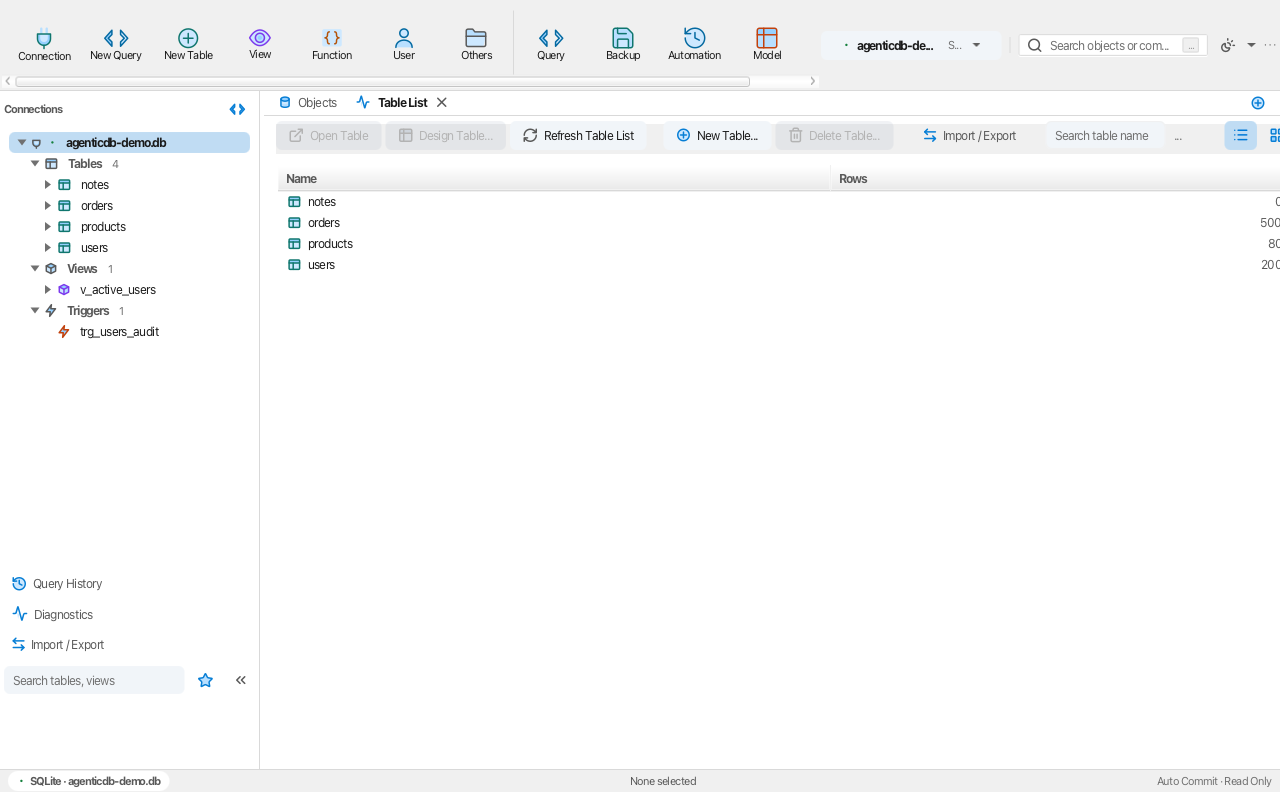
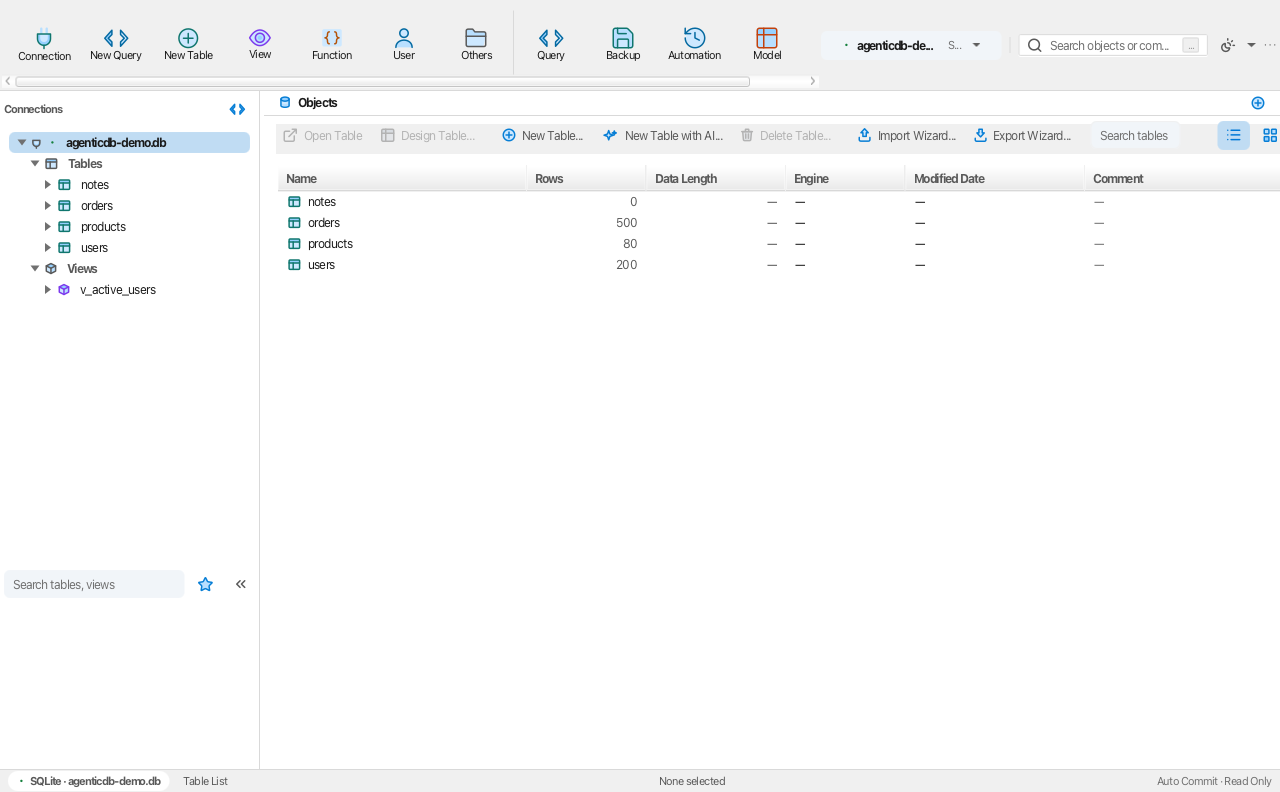
docs: R37-b 文档与三帧 —— 对象清单规格、CHANGELOG、基线回量
- UI-VISUAL-SPEC §7.9 改六列七键（删掉「图标式刷新」这条与实现不符的描述），§15 补 R37-a/b 变更行
- CHANGELOG 补 R36 与 R37-a/b（此前停在 R35）
- STATUS 基线 1203 / 142 → 1175 / 140（−28 条 / −2 类：对象首页两条门禁删除、MetadataColumns 收窄）
- 帧重拍 p0-shell / p6-tables / p6-tables-grid：七键完整、右侧列表 / 网格切换未被挤出、
  「Search tables」不再截断；树与单「对象」标签同帧核对

diff --git a/docs/STATUS.md b/docs/STATUS.md
@@ -11,7 +11,7 @@
 |---|---|
 | 命令 | `./scripts/build.sh`（= `./mvnw -B clean verify` + `java tools/TestCount.java`） |
 | 最近一次全量回量 | 2026-10-31 · macOS 15.7 x64 · JDK 25.0.4（IntelliJ JBR） |
-| 结果 | **1203 条 / 142 类 / 0 失败**（另有 53 条环境门控跳过）—— R36 顶区 + D 系列方言批收官后回量（`./scripts/build.sh` 全绿；较上一版 +37 条 / +3 类，新增 `MariaDbDialectTest` 5 / `OracleDialectTest` 9 / `SqlServerDialectTest` 11） |
+| 结果 | **1175 条 / 140 类 / 0 失败**（另有 53 条环境门控跳过）—— R37-b 对象页二合一后回量（`./scripts/build.sh` 全绿；较上一版 −28 条 / −2 类：删掉对象首页与其工具条的 `ObjectHomePageTest` 18 + `ObjectHomeToolbarTest` 5，`MetadataColumnsTest` 随「列恒在」收窄 6 → 1，新增 `SideBarTreeTest.routinesOpenTheirDefinitionFromTheTree`） |
 
 **口径警告（改数字前必读）**：4 个测试类用 `@Nested`，surefire 的 XML 会把外层类写成 `tests="0"`
 （真实用例在内层类条目里）。按 `tests=` 属性统计会少算一百多条 —— 所以计数一律走
@@ -29,7 +29,7 @@
 | 外壳与布局 | ✅ | 七区（菜单 / 功能区 / 侧栏 / 页签 / 对象工具条 / 内容区 / 状态栏）；侧栏 250px、折叠 48px、可拖 200–360；macOS 用系统菜单栏 |
 | 连接与凭据 | ✅ | 六种方言：SQLite / MySQL 5.7–8.x / PostgreSQL（真库验证过）；MariaDB / SQL Server / Oracle（方言 + 单测门禁已落地，**目录查询未在真库验证**，方言源码逐条标注）。连接分组、收藏、复制、URI（含 Oracle EZConnect 与 SQL Server 分号参数串）；口令进系统凭据服务，**不落盘**；`connections.json` 落盘前剔除敏感键；HikariCP 池化（除 SQLite），SQLite 直连 |
 | 连接向导 | ✅ | 6 个类型磁贴 → 7 页属性 → 测试 → 保存。SSL 页的档位与根证书参数**由方言自报**（PG `sslmode` / MySQL `sslMode` / MariaDB `sslMode`+`serverSslCert`，MariaDB 没有 prefer 档）；SQL Server（encrypt + trustServerCertificate 配对）与 Oracle（钱包 / sqlnet.ora）收起档位并写明去哪里填；SSH / HTTP 页如实标注「未实现」，不是空壳 |
-| 对象树 | ✅ | 真实内省（表 / 视图 / 触发器 / 事件 / 函数·过程）；多连接同树；表节点懒加载展开列，失败可重试 |
+| 对象树 | ✅ | 真实内省（表 / 视图 / 函数·过程；触发器按表归属在结构页，事件本版本不上树）；多连接同树；表节点懒加载展开列，失败可重试 |
 | 数据网格 | ✅ | 服务端分页（100/200/500/1000）、选择列、行号、类型行、列宽/顺序/显隐持久化、冻结列、矩形选择、⌘F 本页搜索、转置只读视图 |
 | 数据页写路径 | ✅ | 行内编辑 + 类型转换 + 按主键定位；NULL / 空串独立操作；批量条（TSV / INSERT / 克隆 / 置 NULL / 置空串 / 删除）；SQL 预览 → 单事务 → 失败回滚 → 保存后一次反向撤销 |
 | 结构编辑 | ✅ | 加列 / 改列 / 重命名 / 删列 + 两级危险确认；索引、外键、触发器、CHECK 可增删；表注释可读可改（SQLite 无 → 按钮禁用）；改列整表重建时搬运 CHECK |
@@ -67,10 +67,9 @@
 - 危险分级**第三层（驱动侧复查）不存在**：`DbSession.execute(sql)` 没有 `danger` 参数，
   绕过 UI 直接调会话层不会被拦。前两层（fail-closed 分类 + UI 确认）已落地。
 - **SSH 隧道未实现**（连接向导里明说）；SSL/TLS 只做到「写驱动属性」，证书链校验与 SNI 待补。
-- 视图不能增删改；函数 / 过程只读定义体（SQLite 没有 SQL 层函数）。
-- 点对象首页的「函数 / 过程 / 触发器」会被告知暂不支持（不再报错，但也不能看定义体）。
+- 视图不能增删改；函数 / 过程只读定义体（SQLite 没有 SQL 层函数），入口是左侧树的双击 / Enter。
+- 事件（MySQL EVENT）不在树上，因此本版本看不到事件定义体；触发器按表归属，在结构页查看。
 - 建表弹窗不能录外键 / 索引 / CHECK（生成器支持，UI 还没有录入区）。
-- 表清单工具条还缺新建 / 删除 / 设计的直达入口。
 
 ### 编辑与选择
 

diff --git a/CHANGELOG.md b/CHANGELOG.md
@@ -23,6 +23,24 @@
 
 ### Changed
 
+- **顶区与外壳按 Navicat 17 重排**（2026-10-31，R36）：顶区 140px = 菜单 24 + Ribbon 91 + 页签行 25；
+  命令带按内容生长、放不下时横向滚动（不再截断英文标签），页签行只放页签；
+  User / Backup / Automation / Model / BI 五格走**如实说明页**，不摆死磁贴。
+  连接向导接入 MariaDB / SQL Server / Oracle：SSL 档位与根证书参数**由方言自报**（MariaDB 没有 prefer 档；
+  SQL Server / Oracle 收起档位并写明去哪里填），URI 参数按方言解析（Oracle EZConnect、SQL Server 分号参数串）
+  并回填到 TLS 控件或附加参数。按方言能力收起按钮：SQL Server / Oracle 的执行计划、Oracle 外键 ON UPDATE。
+- **对象页二合一，表清单收敛成 Navicat 的六列 + 七键**（2026-10-31，R37-b）：
+  对象首页与表清单原来是两张页面 / 两个入口，现在合并成常驻的「对象」页签（切连接只换内容，页签不动）。
+  列固定为 名称 / 行 / 数据长度 / 引擎 / 修改日期 / 注释，取不到值的格显示「—」——
+  SQLite 不再整列消失，同一张表在六种方言下的列位不跳。
+  工具条对齐为七颗带文字的键：打开表 / 设计表 / 新建表 / 用 AI 新建表 / 删除表 / 导入向导 / 导出向导；
+  **移除「刷新」键与「N 张表」计数**（Navicat 的对象工具条两者都没有，刷新留在右键菜单 / 菜单栏），
+  过滤框占位符改为短文案「Search tables / 搜索表名」——原名在 120px 下会被咬掉尾巴，
+  而这条工具条已经排到窗口右缘，放大过滤框会把列表 / 网格切换挤出可视区（重拍核对时实测）。
+- **导航树收成「库 → 表 / 视图 / 函数·过程」**（2026-10-31，R37-a）：删掉每组后面的计数徽标、
+  整组触发器节点与树底三颗导航键（查询历史 / 诊断 / 导入·导出——它们仍在菜单、⌘K 与 ⋯ 菜单里）。
+  触发器按表归属在结构页查看；事件（MySQL EVENT）本版本不上树，文档里写明这条边界；
+  函数 / 过程只经树的双击 / Enter 打开定义体。树里没有事件节点，原来的事件分发是不可达代码，已删。
 - **16px 内联工具条进彩色档**（2026-10-30，R35 N4-c；改的是 `docs/UI-VISUAL-SPEC.md` §4.5 第 1 条规矩）。
   旧规矩把「16px 内联工具条」整体划在单色区，依据是想当然的「小图标彩了会糊」；
   逐像素翻 Navicat 数据页实拍帧（`docs/screenshots/navicat/navicat-data-grid-2026-10-24.png`）后确认
@@ -56,6 +74,11 @@
 
 ### Fixed
 
+- **表清单的列宽防抖会活过页面**（2026-10-31，R37-b）：列宽记忆用 400ms 防抖，
+  页面关掉 / 切换连接之后计时器照样触发，往已拆卸的场景里读列、往可能已被回收的偏好节点写值，
+  抛 `IllegalStateException: Node has been removed`。
+  现在页面从场景摘下时先把这一拖补写完；没挂到场景上的宽度变化（恢复列宽 / 换主题引起的布局抖动）
+  不进防抖；偏好节点已被回收时静默放弃——列宽只是尽力而为的记忆，不该反过来把应用弄崩。
 - **关掉数据页签之后，列宽防抖还会照点一次落盘**（2026-10-30）：`scheduleLayoutSave()` 用 400ms 的
   `PauseTransition` 去抖，`close()` 只取消了在跑的查询、没摘这个定时器。页签没了它照样触发一次
   `persistLayout()` —— 往已拆卸的场景里读列、往可能已被回收的 prefs 节点写值，

diff --git a/docs/UI-FORMS-AND-STATES.md b/docs/UI-FORMS-AND-STATES.md
@@ -224,7 +224,7 @@ dialog.getDialogPane().getStyleClass().add("adb-dialog");
 
 | # | 场景 | 修前 | 现状 |
 |---|---|---|---|
-| **E1** | 未连接（对象首页） | 「未连接」三个字 | ✅ **已修**：空态 + 「新建连接」按钮 |
+| **E1** | 未连接（对象标签） | 「未连接」三个字 | ✅ **已修**：空态 + 「新建连接」按钮 |
 | **E2** | 连上了但没有任何对象 | 一行文字「这个连接还没有可浏览的对象」 | ✅ **已修**：空态 + 「打开查询页」 |
 | **E3** | 读对象列表失败 | summary 里一行报错 | ✅ **已修**：空态 + 「重试」 |
 | **E4** | 空表（如 `notes`）打开数据页 | `new Label("没有数据")` 四个字 | ✅ **已修**：空态 + 「新增一行」+ 草稿提示 |
